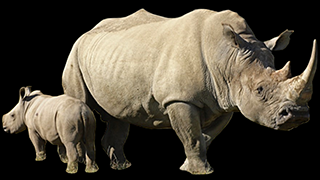
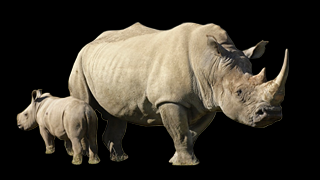
Add navigation; adjust parameters

diff --git a/src/scripts/webgl/WebGLView.js b/src/scripts/webgl/WebGLView.js
@@ -1,12 +1,5 @@
 import 'three';
-import 'three-examples/controls/TrackballControls';
-
-import 'three-examples/shaders/CopyShader';
-import 'three-examples/shaders/SobelOperatorShader';
-
-import 'three-examples/postprocessing/EffectComposer';
-import 'three-examples/postprocessing/RenderPass';
-import 'three-examples/postprocessing/ShaderPass';
+import { TweenLite } from 'gsap/TweenMax';
 
 import InteractiveControls from './controls/InteractiveControls';
 import Particles from './particles/Particles';
@@ -18,10 +11,19 @@ export default class WebGLView {
 	constructor(app) {
 		this.app = app;
 
+		this.samples = [
+			'images/sample-01.png',
+			'images/sample-02.png',
+			'images/sample-03.png',
+			'images/sample-04.png',
+			'images/sample-05.png',
+		];
+
 		this.initThree();
 		this.initParticles();
 		this.initControls();
-		this.initPostProcessing();
+
+		this.goto(3);
 	}
 
 	initThree() {
@@ -46,22 +48,6 @@ export default class WebGLView {
 	initParticles() {
 		this.particles = new Particles(this);
 		this.scene.add(this.particles.container);
-
-		// TEMP
-		this.particles.init('images/sample-02.png');
-	}
-
-	initPostProcessing() {
-		this.composer = new THREE.EffectComposer(this.renderer);
-
-		const renderPass = new THREE.RenderPass(this.scene, this.camera);
-		// renderPass.renderToScreen = true;
-		this.composer.addPass(renderPass);
-
-		const sobelPass = new THREE.ShaderPass(THREE.SobelOperatorShader);
-		sobelPass.renderToScreen = true;
-		this.composer.addPass(sobelPass);
-		this.sobelPass = sobelPass;
 	}
 
 	// ---------------------------------------------------------------------------------------------
@@ -75,8 +61,26 @@ export default class WebGLView {
 	}
 
 	draw() {
-		if (this.composer && this.composer.enabled) this.composer.render();
-		else this.renderer.render(this.scene, this.camera);
+		this.renderer.render(this.scene, this.camera);
+	}
+
+
+	goto(index) {
+		// init immediately
+		if (this.currSample == null) this.particles.init(this.samples[index]);
+		// hide first then init
+		else {
+			this.particles.hide(true).then(() => {
+				this.particles.init(this.samples[index]);
+			});
+		}
+
+		this.currSample = index;
+	}
+
+	next() {
+		if (this.currSample < this.samples.length - 1) this.goto(this.currSample + 1);
+		else this.goto(0);
 	}
 
 	// ---------------------------------------------------------------------------------------------
@@ -91,9 +95,6 @@ export default class WebGLView {
 		this.fovHeight = 2 * Math.tan((this.camera.fov * Math.PI) / 180 / 2) * this.camera.position.z;
 
 		this.renderer.setSize(window.innerWidth, window.innerHeight);
-
-		this.composer.setSize(window.innerWidth, window.innerHeight);
-		this.sobelPass.uniforms.resolution.value.set(window.innerWidth, window.innerHeight);
 
 		if (this.interactive) this.interactive.resize();
 		if (this.particles) this.particles.resize();

diff --git a/src/scripts/webgl/particles/Particles.js b/src/scripts/webgl/particles/Particles.js
@@ -39,9 +39,9 @@ export default class Particles {
 		let originalColors;
 
 		if (discard) {
-			// discard pixels darker than threshold
+			// discard pixels darker than threshold #22
 			numVisible = 0;
-			threshold = 10;
+			threshold = 34;
 
 			const img = this.texture.image;
 			const canvas = document.createElement('canvas');
@@ -79,6 +79,7 @@ export default class Particles {
 			depthTest: false,
 			transparent: true,
 			// wireframe: true,
+			// blending: THREE.AdditiveBlending
 		});
 
 		const geometry = new THREE.InstancedBufferGeometry();
@@ -128,7 +129,8 @@ export default class Particles {
 	}
 
 	initTouch() {
-		this.touch = new TouchTexture(this);
+		// create only once
+		if (!this.touch) this.touch = new TouchTexture(this);
 		this.object3D.material.uniforms.uTouch.value = this.touch.texture;
 	}
 
@@ -141,8 +143,6 @@ export default class Particles {
 	}
 
 	addListeners() {
-		if (!this.hitArea) return;
-
 		this.handlerInteractiveMove = this.onInteractiveMove.bind(this);
 
 		this.webgl.interactive.addListener('interactive-move', this.handlerInteractiveMove);
@@ -151,8 +151,6 @@ export default class Particles {
 	}
 
 	removeListeners() {
-		if (!this.hitArea) return;
-
 		this.webgl.interactive.removeListener('interactive-move', this.handlerInteractiveMove);
 		
 		const index = this.webgl.interactive.objects.findIndex(obj => obj === this.hitArea);
@@ -171,23 +169,26 @@ export default class Particles {
 		this.object3D.material.uniforms.uTime.value += delta;
 	}
 
-	show() {
+	show(time = 1.0) {
 		// reset
-		this.object3D.material.uniforms.uSize.value = 0.8;
-		this.object3D.material.uniforms.uRandom.value = 1.0;
+		TweenLite.to(this.object3D.material.uniforms.uSize, time, { value: 1.5 });
+		TweenLite.to(this.object3D.material.uniforms.uRandom, time, { value: 2.0 });
+		TweenLite.fromTo(this.object3D.material.uniforms.uDepth, time * 1.5, { value: 40.0 }, { value: 4.0 });
 
 		this.addListeners();
 	}
 
-	hide(_destroy, time = 1.0) {
-		if (!this.object3D) return;
-		
-		TweenLite.to(this.object3D.material.uniforms.uRandom, time, { value: 3.0 });
-		TweenLite.to(this.object3D.material.uniforms.uSize, time, { value: 0.0, onComplete: () => {
-			if (_destroy) this.destroy();
-		} });
+	hide(_destroy, time = 0.8) {
+		return new Promise((resolve, reject) => {
+			TweenLite.to(this.object3D.material.uniforms.uRandom, time, { value: 5.0, onComplete: () => {
+				if (_destroy) this.destroy();
+				resolve();
+			} });
+			TweenLite.to(this.object3D.material.uniforms.uDepth, time, { value: -20.0, ease: Quart.easeIn });
+			TweenLite.to(this.object3D.material.uniforms.uSize, time * 0.8, { value: 0.0 });
 
-		this.removeListeners();
+			this.removeListeners();
+		});
 	}
 
 	destroy() {

diff --git a/src/scripts/App.js b/src/scripts/App.js
@@ -30,8 +30,8 @@ export default class App {
 		window.addEventListener('resize', this.resize.bind(this));
 		window.addEventListener('keyup', this.keyup.bind(this));
 		
-		// const el = this.webgl.renderer.domElement;
-		// el.addEventListener('click', this.onClick.bind(this));
+		const el = this.webgl.renderer.domElement;
+		el.addEventListener('click', this.click.bind(this));
 	}
 
 	animate() {
@@ -69,5 +69,9 @@ export default class App {
 		if (e.keyCode == 71) { if (this.gui) this.gui.toggle(); }
 		// r
 		if (e.keyCode == 82) { if (this.webgl.trackball) this.webgl.trackball.reset(); }
+	}
+
+	click(e) {
+		this.webgl.next();
 	}
 }

diff --git a/src/scripts/gui/GUIView.js b/src/scripts/gui/GUIView.js
@@ -9,9 +9,9 @@ export default class GUIView {
 		this.postProcessing = false;
 
 		this.particlesHitArea = false;
-		this.particlesRandom = 1;
-		this.particlesDepth = 2;
-		this.particlesSize = 0.8;
+		this.particlesRandom = 2;
+		this.particlesDepth = 4;
+		this.particlesSize = 1.5;
 
 		this.range = [0, 1];
 		this.rangeRandom = [0, 10];
@@ -21,7 +21,7 @@ export default class GUIView {
 		this.initControlKit();
 		this.initStats();
 
-		// this.disable();
+		this.disable();
 	}
 
 	initControlKit() {

diff --git a/src/scripts/webgl/particles/TouchTexture.js b/src/scripts/webgl/particles/TouchTexture.js
@@ -5,7 +5,7 @@ import { easeOutQuad, easeInOutQuad, easeOutSine, easeInOutSine } from '../../ut
 export default class TouchTexture {
 	constructor(parent) {
 		this.parent = parent;
-		this.size = 64;
+		this.size = 128;
 		this.maxAge = 100;
 		this.trail = [];
 
